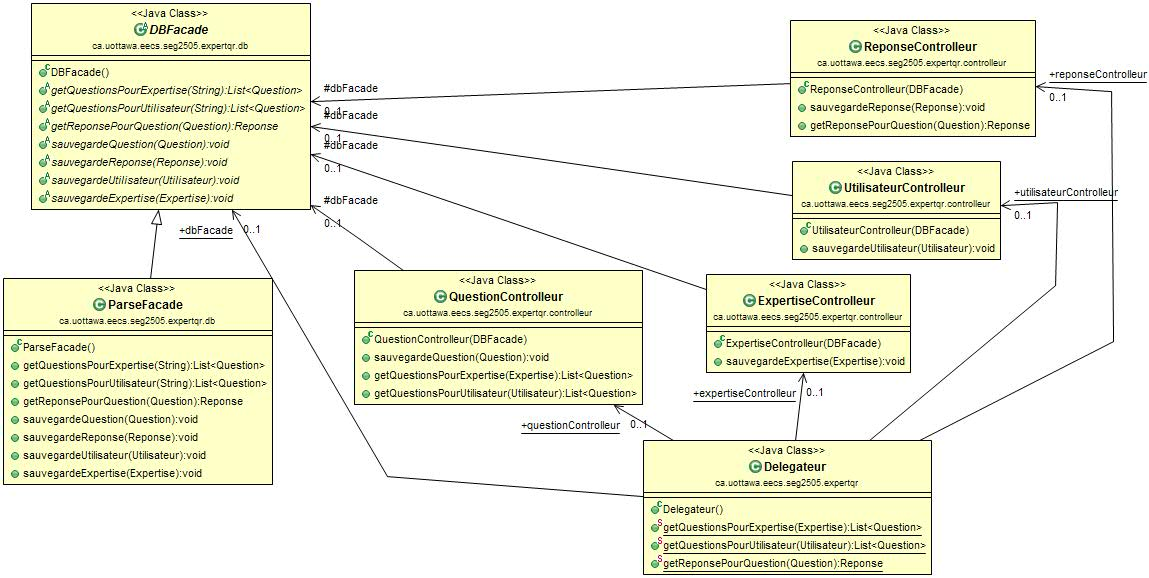
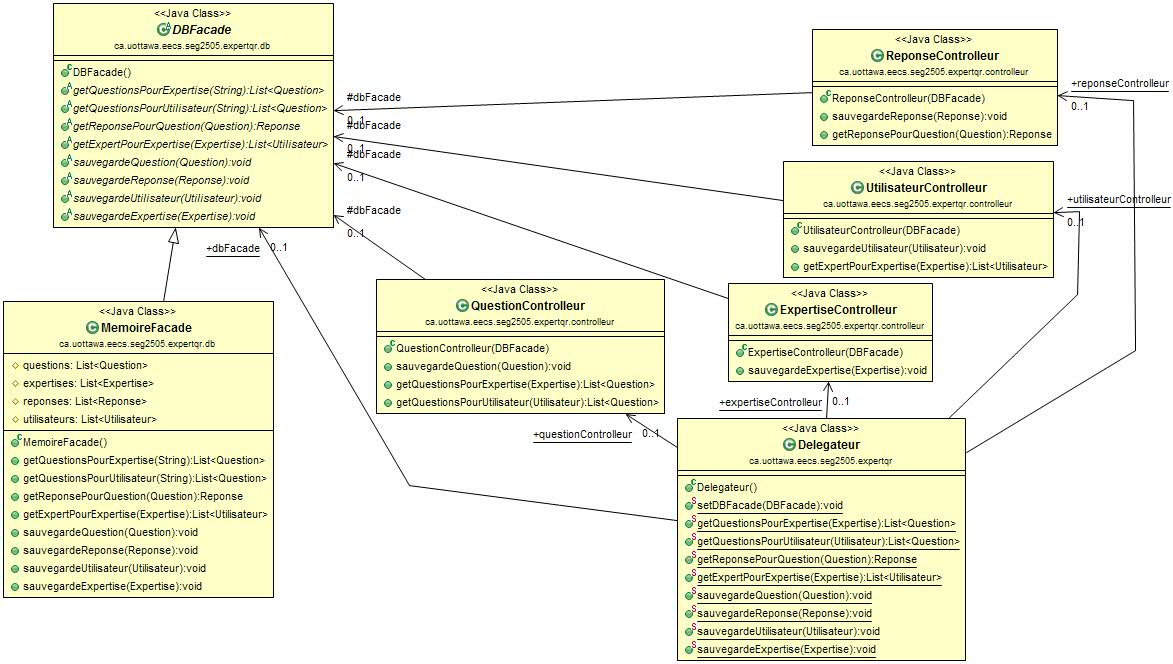
Nouveau diagramme

diff --git a/ExpertQR/src/ca/uottawa/eecs/seg2505/expertqr/db/MemoireFacade.java b/ExpertQR/src/ca/uottawa/eecs/seg2505/expertqr/db/MemoireFacade.java
@@ -11,10 +11,10 @@ import ca.uottawa.eecs.seg2505.expertqr.model.Utilisateur;
 public class MemoireFacade extends DBFacade {
 
 	// garder tous les donnees en memoire
-	List<Question> questions = new ArrayList<Question>();
-	List<Expertise> expertises = new ArrayList<Expertise>();
-	List<Reponse> reponses = new ArrayList<Reponse>();
-	List<Utilisateur> utilisateurs = new ArrayList<Utilisateur>();
+	protected List<Question> questions = new ArrayList<Question>();
+	protected List<Expertise> expertises = new ArrayList<Expertise>();
+	protected List<Reponse> reponses = new ArrayList<Reponse>();
+	protected List<Utilisateur> utilisateurs = new ArrayList<Utilisateur>();
 
 	@Override
 	public List<Question> getQuestionsPourExpertise(String expertise) {
